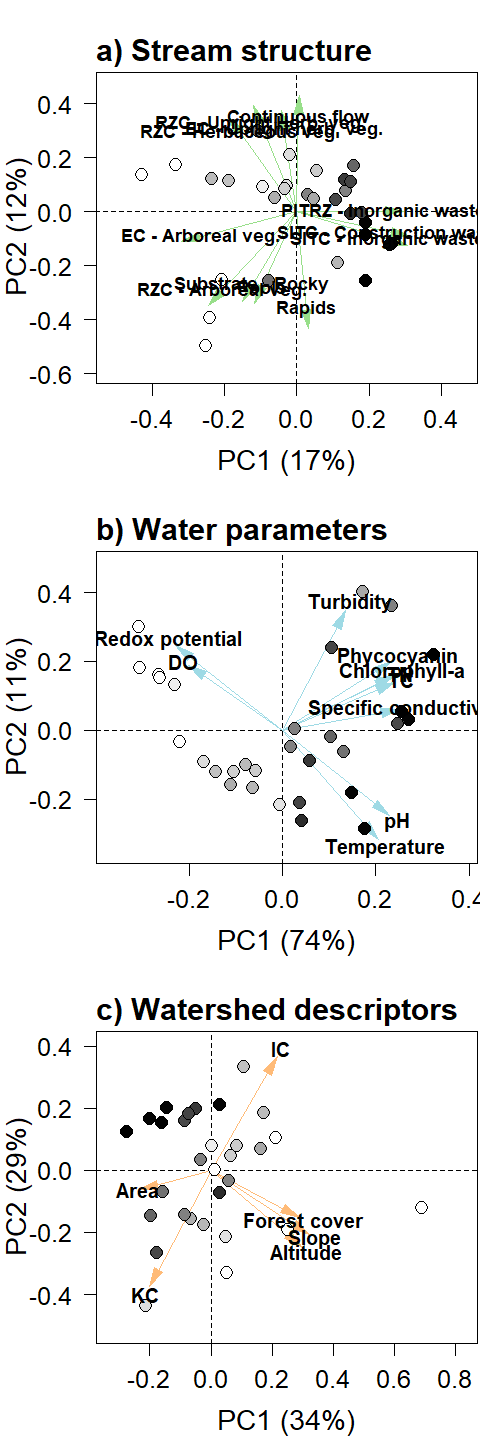
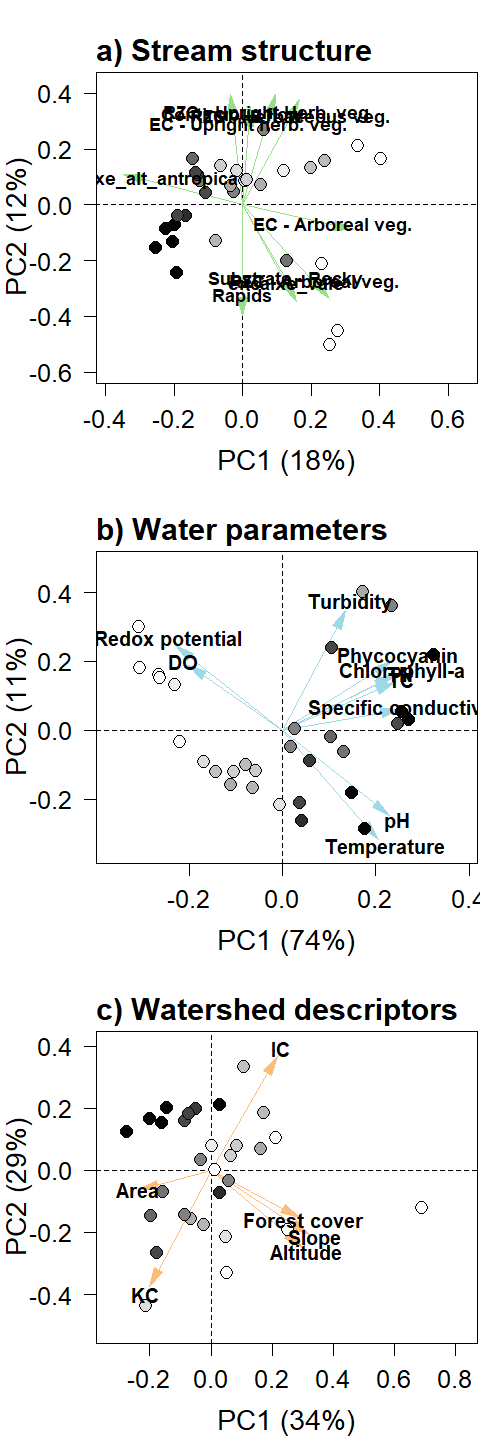
Updating PCAs

diff --git a/Markdowns/PCAs.md b/Markdowns/PCAs.md
@@ -1,7 +1,7 @@
 Environmental PCAs
 ================
 Rodolfo Pelinson
-2025-11-23
+2026-01-06
 
 ``` r
 dir<-("C:/Users/rodol/OneDrive/repos/Urban_fish_assemblages")
@@ -43,6 +43,12 @@ estrutura <- estrutura[,colnames(estrutura) != "comp_zona_riparia_plantacao"] #V
 
 agua_st <- decostand(agua, method = "stand")
 estrutura_st <- decostand(estrutura, method = "stand")
+```
+
+    ## Warning in decostand(estrutura, method = "stand"): result contains NaN, perhaps due to impossible mathematical
+    ##                  operation
+
+``` r
 bacia_st <- decostand(bacia, method = "stand")
 
 
@@ -50,6 +56,10 @@ bacia_st <- decostand(bacia, method = "stand")
 ncol_agua <- ncol(agua_st)
 ncol_estrutura <- ncol(estrutura_st)
 ncol_bacia <- ncol(bacia_st)
+
+remove <- which(is.na(apply(estrutura_st, MARGIN = 2, FUN = mean)))
+
+estrutura_st <- estrutura_st[,-remove]
 ```
 
 ### PCA stream structure
@@ -64,7 +74,7 @@ Eigenvalues_estrutura <- data.frame(autovalores = pca_estrutura$CA$eig,
 sum(importance_estrutura[1:5])
 ```
 
-    ## [1] 0.52
+    ## [1] 0.51
 
 ``` r
 estrutura_PCs <- pca_estrutura$CA$u
@@ -74,14 +84,8 @@ estrutura_loadings_filtrados_PC1 <- estrutura_loadings[which(estrutura_loadings[
 estrutura_loadings_filtrados_PC1
 ```
 
-    ##                      comp_ecotono_arborea 
-    ##                                -0.2187643 
-    ##         pert_zona_riparia_lixo_inorganico 
-    ##                                 0.2006876 
-    ##         estrutura_dentro_do_canal_entulho 
-    ##                                 0.2139454 
-    ## estrutura_dentro_do_canal_lixo_inorganico 
-    ##                                 0.2091046
+    ##  comp_ecotono_arborea encaixe_alt_antropica 
+    ##             0.2095068            -0.2281669
 
 ``` r
 estrutura_loadings_filtrados_PC2 <- estrutura_loadings[which(estrutura_loadings[,2] > 0.2 | estrutura_loadings[,2] < -0.2),2]
@@ -89,13 +93,13 @@ estrutura_loadings_filtrados_PC2
 ```
 
     ##      comp_ecotono_herbacea_ereta                  substrato_rocha 
-    ##                        0.2520818                       -0.2230341 
-    ##         tipo_de_canal_corredeira               tipo_de_canal_poco 
-    ##                       -0.2941114                       -0.2276796 
-    ##     tipo_de_canal_fluxo_continuo    comp_zona_riparia_veg_arborea 
-    ##                        0.2937503                       -0.2386225 
-    ##   comp_zona_riparia_veg_herbacea comp_zona_riparia_veg_herb_ereta 
-    ##                        0.2408681                        0.2682561
+    ##                        0.2248243                       -0.2114026 
+    ##         tipo_de_canal_corredeira     tipo_de_canal_fluxo_continuo 
+    ##                       -0.2578407                        0.2569003 
+    ##    comp_zona_riparia_veg_arborea   comp_zona_riparia_veg_herbacea 
+    ##                       -0.2192488                        0.2456757 
+    ## comp_zona_riparia_veg_herb_ereta                     encaixe_vale 
+    ##                        0.2569319                       -0.2253370
 
 ``` r
 estrutura_loadings_filtrados_PC3 <- estrutura_loadings[which(estrutura_loadings[,3] > 0.2 | estrutura_loadings[,3] < -0.2),3]
@@ -103,11 +107,9 @@ estrutura_loadings_filtrados_PC3
 ```
 
     ##               comp_ecotono_flutuante            substrato_galhos_pequenos 
-    ##                           -0.2952432                           -0.2697092 
-    ##            pert_zona_riparia_entulho  estrutura_dentro_do_canal_macrofita 
-    ##                            0.2151240                           -0.2612014 
-    ## estrutura_dentro_do_canal_herb_ereta 
-    ##                           -0.2198031
+    ##                           -0.3122663                           -0.2829659 
+    ##  estrutura_dentro_do_canal_macrofita estrutura_dentro_do_canal_herb_ereta 
+    ##                           -0.2747630                           -0.2239201
 
 ``` r
 estrutura_loadings_filtrados_PC4 <- estrutura_loadings[which(estrutura_loadings[,4] > 0.2 | estrutura_loadings[,4] < -0.2),4]
@@ -115,15 +117,15 @@ estrutura_loadings_filtrados_PC4
 ```
 
     ##                        substrato_cascalho 
-    ##                                 0.2987250 
+    ##                                 0.2870753 
     ##                           substrato_seixo 
-    ##                                 0.2711730 
+    ##                                 0.2692663 
     ##                substrato_litter_grosseiro 
-    ##                                -0.2398220 
-    ##            comp_zona_riparia_solo_exposto 
-    ##                                 0.2047686 
+    ##                                -0.2042895 
     ## estrutura_dentro_do_canal_banco_de_folhas 
-    ##                                -0.2508407
+    ##                                -0.2018773 
+    ##      tipo_de_encaixe_encaixado_canalizado 
+    ##                                -0.2342551
 
 ``` r
 estrutura_loadings_filtrados_PC5 <- estrutura_loadings[which(estrutura_loadings[,5] > 0.2 | estrutura_loadings[,5] < -0.2),5]
@@ -131,11 +133,11 @@ estrutura_loadings_filtrados_PC5
 ```
 
     ##                              dossel                     substrato_areia 
-    ##                          -0.2447722                          -0.3033599 
+    ##                          -0.2353283                          -0.3265303 
     ##                      substrato_lodo           substrato_galhos_pequenos 
-    ##                           0.2503019                          -0.2578395 
+    ##                           0.2131262                          -0.2650882 
     ## estrutura_dentro_do_canal_macrofita 
-    ##                          -0.2640236
+    ##                          -0.2677931
 
 ``` r
 estrutura_loadings_filtrados <- estrutura_loadings[which((estrutura_loadings[,1] > 0.2 | estrutura_loadings[,1] < -0.2) |
@@ -143,19 +145,17 @@ estrutura_loadings_filtrados <- estrutura_loadings[which((estrutura_loadings[,1]
 estrutura_loadings_filtrados
 ```
 
-    ##                                                    PC1         PC2
-    ## comp_ecotono_herbacea_ereta               -0.028653636  0.25208185
-    ## comp_ecotono_arborea                      -0.218764251 -0.07579779
-    ## substrato_rocha                           -0.101246502 -0.22303411
-    ## tipo_de_canal_corredeira                   0.021045789 -0.29411137
-    ## tipo_de_canal_poco                        -0.079258438 -0.22767956
-    ## tipo_de_canal_fluxo_continuo               0.003990507  0.29375035
-    ## pert_zona_riparia_lixo_inorganico          0.200687591  0.00184380
-    ## comp_zona_riparia_veg_arborea             -0.168900012 -0.23862247
-    ## comp_zona_riparia_veg_herbacea            -0.128949818  0.24086813
-    ## comp_zona_riparia_veg_herb_ereta          -0.081070691  0.26825614
-    ## estrutura_dentro_do_canal_entulho          0.213945418 -0.06114972
-    ## estrutura_dentro_do_canal_lixo_inorganico  0.209104620 -0.08546433
+    ##                                           PC1         PC2
+    ## comp_ecotono_herbacea_ereta       0.014319670  0.22482427
+    ## comp_ecotono_arborea              0.209506812 -0.05725049
+    ## substrato_rocha                   0.100474592 -0.21140265
+    ## tipo_de_canal_corredeira         -0.000684176 -0.25784066
+    ## tipo_de_canal_fluxo_continuo     -0.022998059  0.25690035
+    ## comp_zona_riparia_veg_arborea     0.166017778 -0.21924881
+    ## comp_zona_riparia_veg_herbacea    0.108954619  0.24567569
+    ## comp_zona_riparia_veg_herb_ereta  0.061656594  0.25693192
+    ## encaixe_vale                      0.101452756 -0.22533700
+    ## encaixe_alt_antropica            -0.228166892  0.07198920
 
 ``` r
 #write.csv(Eigenvalues_estrutura, "data/pcas_amb/estrutura_autovalores.csv")
